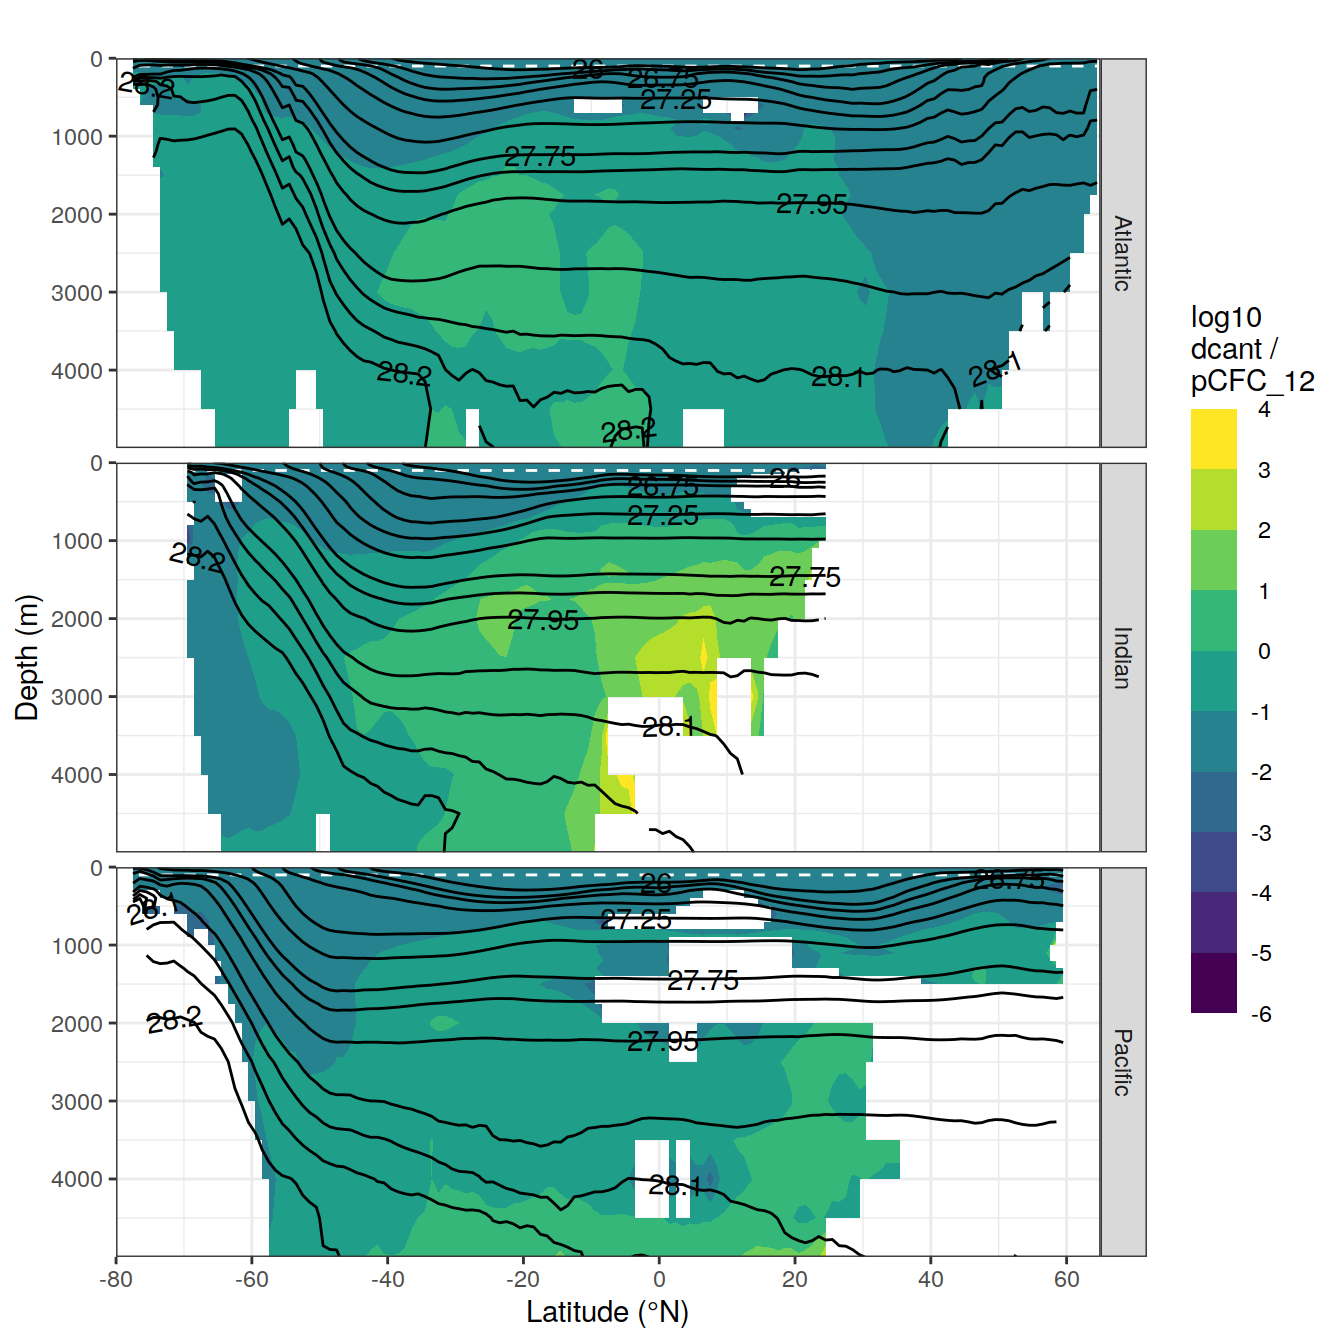
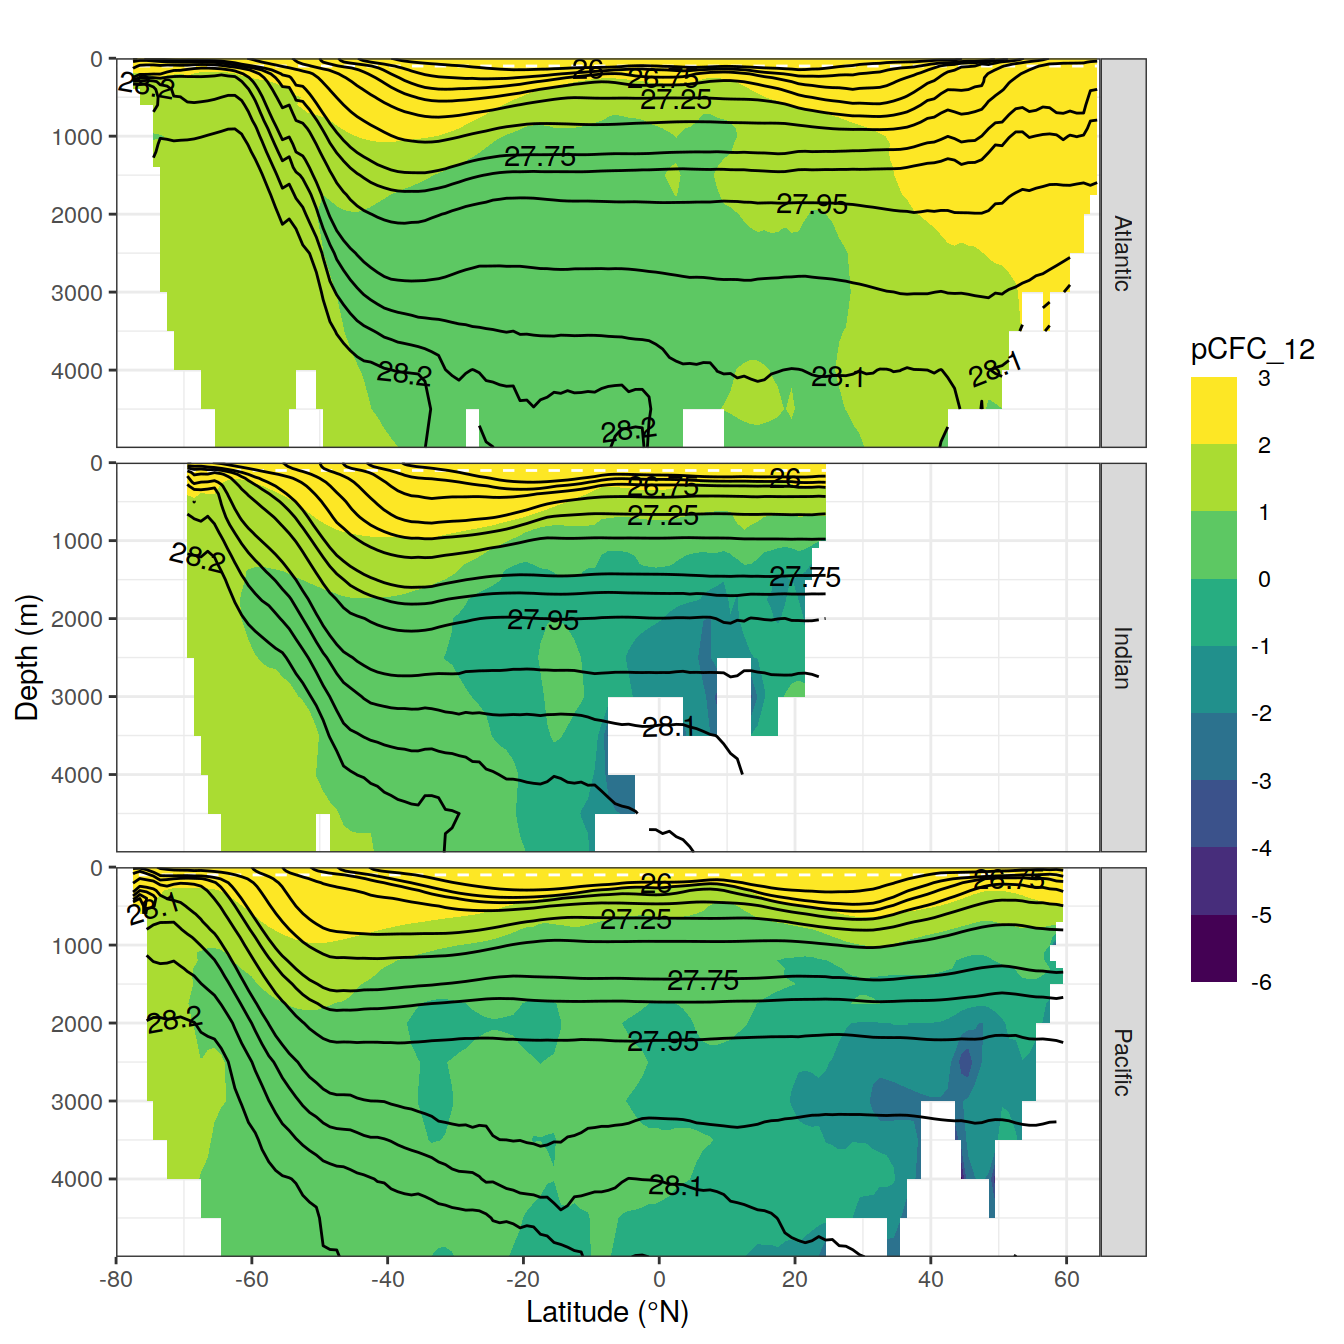
Build site.

diff --git a/docs/tracers_GLODAPv2_2021.html b/docs/tracers_GLODAPv2_2021.html
@@ -459,7 +459,7 @@ div.tocify {
 
 <h1 class="title toc-ignore">GLODAPv2_2021 halogenated tracers</h1>
 <h4 class="author">Jens Daniel Müller</h4>
-<h4 class="date">12 November, 2021</h4>
+<h4 class="date">16 November, 2021</h4>
 
 </div>
 
@@ -484,7 +484,7 @@ div.tocify {
 <div class="tab-content">
 <div id="summary" class="tab-pane fade in active">
 <p>
-<strong>Last updated:</strong> 2021-11-12
+<strong>Last updated:</strong> 2021-11-16
 </p>
 <p>
 <strong>Checks:</strong> <span class="glyphicon glyphicon-ok text-success" aria-hidden="true"></span> 7 <span class="glyphicon glyphicon-exclamation-sign text-danger" aria-hidden="true"></span> 0
@@ -575,16 +575,16 @@ This reproducible <a href="http://rmarkdown.rstudio.com">R Markdown</a> analysis
 <div class="panel panel-default">
 <div class="panel-heading">
 <p class="panel-title">
-<a data-toggle="collapse" data-parent="#workflowr-checks" href="#strongRepositoryversionstrongahrefhttpsgithubcomjensdanielmuelleremlrobsvXXXtree452790461bc99ad65cfa697c47ceb4f1631d2ff1targetblank4527904a"> <span class="glyphicon glyphicon-ok text-success" aria-hidden="true"></span> <strong>Repository version:</strong> <a href="https://github.com/jens-daniel-mueller/emlr_obs_v_XXX/tree/452790461bc99ad65cfa697c47ceb4f1631d2ff1" target="_blank">4527904</a> </a>
+<a data-toggle="collapse" data-parent="#workflowr-checks" href="#strongRepositoryversionstrongahrefhttpsgithubcomjensdanielmuelleremlrobsvXXXtree0ab7dc31fb9c9713718b52eb5f4f598114a5fb9atargetblank0ab7dc3a"> <span class="glyphicon glyphicon-ok text-success" aria-hidden="true"></span> <strong>Repository version:</strong> <a href="https://github.com/jens-daniel-mueller/emlr_obs_v_XXX/tree/0ab7dc31fb9c9713718b52eb5f4f598114a5fb9a" target="_blank">0ab7dc3</a> </a>
 </p>
 </div>
[2 lines of base64/hex data omitted]
 <div class="panel-body">
 <p>
 Great! You are using Git for version control. Tracking code development and connecting the code version to the results is critical for reproducibility.
 </p>
 <p>
-The results in this page were generated with repository version <a href="https://github.com/jens-daniel-mueller/emlr_obs_v_XXX/tree/452790461bc99ad65cfa697c47ceb4f1631d2ff1" target="_blank">4527904</a>. See the <em>Past versions</em> tab to see a history of the changes made to the R Markdown and HTML files.
+The results in this page were generated with repository version <a href="https://github.com/jens-daniel-mueller/emlr_obs_v_XXX/tree/0ab7dc31fb9c9713718b52eb5f4f598114a5fb9a" target="_blank">0ab7dc3</a>. See the <em>Past versions</em> tab to see a history of the changes made to the R Markdown and HTML files.
 </p>
 <p>
 Note that you need to be careful to ensure that all relevant files for the analysis have been committed to Git prior to generating the results (you can use <code>wflow_publish</code> or <code>wflow_git_commit</code>). workflowr only checks the R Markdown file, but you know if there are other scripts or data files that it depends on. Below is the status of the Git repository when the results were generated:
@@ -631,6 +631,40 @@ Message
 </tr>
 </thead>
 <tbody>
+<tr>
+<td>
+Rmd
+</td>
+<td>
+<a href="https://github.com/jens-daniel-mueller/emlr_obs_v_XXX/blob/0ab7dc31fb9c9713718b52eb5f4f598114a5fb9a/analysis/tracers_GLODAPv2_2021.Rmd" target="_blank">0ab7dc3</a>
+</td>
+<td>
+jens-daniel-mueller
+</td>
+<td>
+2021-11-16
+</td>
+<td>
+added plots per gamma level
+</td>
+</tr>
+<tr>
+<td>
+html
+</td>
+<td>
+<a href="https://rawcdn.githack.com/jens-daniel-mueller/emlr_obs_v_XXX/8a3e867be2ab2bad53db6dd1e8e12f6cc159c8f1/docs/tracers_GLODAPv2_2021.html" target="_blank">8a3e867</a>
+</td>
+<td>
+jens-daniel-mueller
+</td>
+<td>
+2021-11-12
+</td>
+<td>
+Build site.
+</td>
+</tr>
 <tr>
 <td>
 Rmd
@@ -6837,6 +6871,112 @@ jens-daniel-mueller
 </table>
 </div>
 </div>
+<pre class="r"><code>CFC_dcant %&gt;%
+  group_split(gamma_slab) %&gt;%
+  # head(1) %&gt;%
+  map(
+    ~ ggplot(data = .x,
+             aes(pCFC_12, dcant)) +
+      geom_hline(yintercept = 0) +
+      geom_bin2d() +
+      geom_smooth(col = &quot;red&quot;, se=FALSE) +
+      scale_fill_viridis_c(trans = &quot;log10&quot;) +
+      labs(title = paste(&quot;gamma_slab&quot;, unique(.x$gamma_slab))) +
+      facet_grid(. ~ basin_AIP)
+  )</code></pre>
+<pre><code>[[1]]</code></pre>
+<p><img src="figure/tracers_GLODAPv2_2021.Rmd/dcant_CFC12_correlation_gamma_individual-1.png" width="672" style="display: block; margin: auto;" /></p>
+<pre><code>
+[[2]]</code></pre>
+<p><img src="figure/tracers_GLODAPv2_2021.Rmd/dcant_CFC12_correlation_gamma_individual-2.png" width="672" style="display: block; margin: auto;" /></p>
+<pre><code>
+[[3]]</code></pre>
+<p><img src="figure/tracers_GLODAPv2_2021.Rmd/dcant_CFC12_correlation_gamma_individual-3.png" width="672" style="display: block; margin: auto;" /></p>
+<pre><code>
+[[4]]</code></pre>
+<p><img src="figure/tracers_GLODAPv2_2021.Rmd/dcant_CFC12_correlation_gamma_individual-4.png" width="672" style="display: block; margin: auto;" /></p>
+<pre><code>
+[[5]]</code></pre>
+<p><img src="figure/tracers_GLODAPv2_2021.Rmd/dcant_CFC12_correlation_gamma_individual-5.png" width="672" style="display: block; margin: auto;" /></p>
+<pre><code>
+[[6]]</code></pre>
+<p><img src="figure/tracers_GLODAPv2_2021.Rmd/dcant_CFC12_correlation_gamma_individual-6.png" width="672" style="display: block; margin: auto;" /></p>
+<pre><code>
+[[7]]</code></pre>
+<p><img src="figure/tracers_GLODAPv2_2021.Rmd/dcant_CFC12_correlation_gamma_individual-7.png" width="672" style="display: block; margin: auto;" /></p>
+<pre><code>
+[[8]]</code></pre>
+<p><img src="figure/tracers_GLODAPv2_2021.Rmd/dcant_CFC12_correlation_gamma_individual-8.png" width="672" style="display: block; margin: auto;" /></p>
+<pre><code>
+[[9]]</code></pre>
+<p><img src="figure/tracers_GLODAPv2_2021.Rmd/dcant_CFC12_correlation_gamma_individual-9.png" width="672" style="display: block; margin: auto;" /></p>
+<pre><code>
+[[10]]</code></pre>
+<p><img src="figure/tracers_GLODAPv2_2021.Rmd/dcant_CFC12_correlation_gamma_individual-10.png" width="672" style="display: block; margin: auto;" /></p>
+<pre><code>
+[[11]]</code></pre>
+<p><img src="figure/tracers_GLODAPv2_2021.Rmd/dcant_CFC12_correlation_gamma_individual-11.png" width="672" style="display: block; margin: auto;" /></p>
+<pre><code>
+[[12]]</code></pre>
+<p><img src="figure/tracers_GLODAPv2_2021.Rmd/dcant_CFC12_correlation_gamma_individual-12.png" width="672" style="display: block; margin: auto;" /></p>
+<pre><code>
+[[13]]</code></pre>
+<p><img src="figure/tracers_GLODAPv2_2021.Rmd/dcant_CFC12_correlation_gamma_individual-13.png" width="672" style="display: block; margin: auto;" /></p>
+<pre><code>
+[[14]]</code></pre>
+<p><img src="figure/tracers_GLODAPv2_2021.Rmd/dcant_CFC12_correlation_gamma_individual-14.png" width="672" style="display: block; margin: auto;" /></p>
+<pre><code>
+[[15]]</code></pre>
+<p><img src="figure/tracers_GLODAPv2_2021.Rmd/dcant_CFC12_correlation_gamma_individual-15.png" width="672" style="display: block; margin: auto;" /></p>
+<pre class="r"><code>CFC_dcant %&gt;%
+  filter(pCFC_12 &lt; 5) %&gt;%
+  group_split(gamma_slab) %&gt;%
+  # head(1) %&gt;%
+  map(~ ggplot(data = .x,
+               aes(dcant, col = basin_AIP, fill = basin_AIP)) +
+  geom_vline(xintercept = 0) +
+  geom_density(alpha = 0.3) +
+  labs(title = paste(&quot;pCFC-12 &lt; 5 | gamma_slab&quot;, unique(.x$gamma_slab))) +
+  coord_cartesian(xlim = c(-4,11.5))
+)</code></pre>
+<pre><code>[[1]]</code></pre>
+<p><img src="figure/tracers_GLODAPv2_2021.Rmd/dcant_CFC12_correlation_at_low_CFC_gamma-1.png" width="672" style="display: block; margin: auto;" /></p>
+<pre><code>
+[[2]]</code></pre>
+<p><img src="figure/tracers_GLODAPv2_2021.Rmd/dcant_CFC12_correlation_at_low_CFC_gamma-2.png" width="672" style="display: block; margin: auto;" /></p>
+<pre><code>
+[[3]]</code></pre>
+<p><img src="figure/tracers_GLODAPv2_2021.Rmd/dcant_CFC12_correlation_at_low_CFC_gamma-3.png" width="672" style="display: block; margin: auto;" /></p>
+<pre><code>
+[[4]]</code></pre>
+<p><img src="figure/tracers_GLODAPv2_2021.Rmd/dcant_CFC12_correlation_at_low_CFC_gamma-4.png" width="672" style="display: block; margin: auto;" /></p>
+<pre><code>
+[[5]]</code></pre>
+<p><img src="figure/tracers_GLODAPv2_2021.Rmd/dcant_CFC12_correlation_at_low_CFC_gamma-5.png" width="672" style="display: block; margin: auto;" /></p>
+<pre><code>
+[[6]]</code></pre>
+<p><img src="figure/tracers_GLODAPv2_2021.Rmd/dcant_CFC12_correlation_at_low_CFC_gamma-6.png" width="672" style="display: block; margin: auto;" /></p>
+<pre><code>
+[[7]]</code></pre>
+<p><img src="figure/tracers_GLODAPv2_2021.Rmd/dcant_CFC12_correlation_at_low_CFC_gamma-7.png" width="672" style="display: block; margin: auto;" /></p>
+<pre><code>
+[[8]]</code></pre>
+<p><img src="figure/tracers_GLODAPv2_2021.Rmd/dcant_CFC12_correlation_at_low_CFC_gamma-8.png" width="672" style="display: block; margin: auto;" /></p>
+<pre><code>
+[[9]]</code></pre>
+<p><img src="figure/tracers_GLODAPv2_2021.Rmd/dcant_CFC12_correlation_at_low_CFC_gamma-9.png" width="672" style="display: block; margin: auto;" /></p>
+<pre><code>
+[[10]]</code></pre>
+<p><img src="figure/tracers_GLODAPv2_2021.Rmd/dcant_CFC12_correlation_at_low_CFC_gamma-10.png" width="672" style="display: block; margin: auto;" /></p>
+<pre><code>
+[[11]]</code></pre>
+<p><img src="figure/tracers_GLODAPv2_2021.Rmd/dcant_CFC12_correlation_at_low_CFC_gamma-11.png" width="672" style="display: block; margin: auto;" /></p>
+<pre><code>
+[[12]]</code></pre>
+<p><img src="figure/tracers_GLODAPv2_2021.Rmd/dcant_CFC12_correlation_at_low_CFC_gamma-12.png" width="672" style="display: block; margin: auto;" /></p>
+<pre><code>
+[[13]]</code></pre>
+<p><img src="figure/tracers_GLODAPv2_2021.Rmd/dcant_CFC12_correlation_at_low_CFC_gamma-13.png" width="672" style="display: block; margin: auto;" /></p>
 </div>
 <div id="zonal-sections-1" class="section level2" number="6.2">
 <h2 number="6.2"><span class="header-section-number">6.2</span> Zonal sections</h2>
@@ -6989,11 +7129,11 @@ jens-daniel-mueller
 </div>
 </div>
 <pre class="r"><code>CFC_dcant_zonal %&gt;%
-  # filter(dcant_per_CFC_log &gt; -4) %&gt;%
+  mutate(lg_pCFC_12_mean = log10(pCFC_12_mean)) %&gt;% 
   p_section_zonal_continous_depth(
-    var = &quot;dcant_per_CFC_log&quot;,
+    var = &quot;lg_pCFC_12_mean&quot;,
     breaks = NULL,
-    legend_title = &quot;log10\ndcant /\npCFC_12&quot;,
+    legend_title = &quot;pCFC_12&quot;,
     title_text = NULL
   ) +
   facet_grid(basin_AIP ~ .)</code></pre>
@@ -7020,6 +7160,17 @@ Date
 </tr>
 </thead>
 <tbody>
+<tr>
+<td>
+<a href="https://github.com/jens-daniel-mueller/emlr_obs_v_XXX/blob/8a3e867be2ab2bad53db6dd1e8e12f6cc159c8f1/docs/figure/tracers_GLODAPv2_2021.Rmd/zonal_mean_sections-3.png" target="_blank">8a3e867</a>
+</td>
+<td>
+jens-daniel-mueller
+</td>
+<td>
+2021-11-12
+</td>
+</tr>
 <tr>
 <td>
 <a href="https://github.com/jens-daniel-mueller/emlr_obs_v_XXX/blob/029c50af837eed95d99b546ced0d74eb7f98350e/docs/figure/tracers_GLODAPv2_2021.Rmd/zonal_mean_sections-3.png" target="_blank">029c50a</a>
@@ -7054,11 +7205,6 @@ jens-daniel-mueller
     legend_title = &quot;log10\ndcant /\npCFC_12&quot;,
     title_text = NULL
   ) +
-  scale_y_reverse(
-    limits = c(1000, 0),
-    breaks = seq(0, 900, 200),
-    name = &quot;Depth (m)&quot;
-  ) +
   facet_grid(basin_AIP ~ .)</code></pre>
 <p><img src="figure/tracers_GLODAPv2_2021.Rmd/zonal_mean_sections-4.png" width="672" style="display: block; margin: auto;" /></p>
 <p>
@@ -7083,6 +7229,17 @@ Date
 </tr>
 </thead>
 <tbody>
+<tr>
+<td>
+<a href="https://github.com/jens-daniel-mueller/emlr_obs_v_XXX/blob/8a3e867be2ab2bad53db6dd1e8e12f6cc159c8f1/docs/figure/tracers_GLODAPv2_2021.Rmd/zonal_mean_sections-4.png" target="_blank">8a3e867</a>
+</td>
+<td>
+jens-daniel-mueller
+</td>
+<td>
+2021-11-12
+</td>
+</tr>
 <tr>
 <td>
 <a href="https://github.com/jens-daniel-mueller/emlr_obs_v_XXX/blob/e5a0a8fb15701b165aa0606d4180043b95d27fd0/docs/figure/tracers_GLODAPv2_2021.Rmd/zonal_mean_sections-4.png" target="_blank">e5a0a8f</a>
@@ -7119,6 +7276,102 @@ jens-daniel-mueller
 <tr>
 <td>
 <a href="https://github.com/jens-daniel-mueller/emlr_obs_v_XXX/blob/20e7603fe7fda1ae4c4dbb0517a4584a976ac2bc/docs/figure/tracers_GLODAPv2_2021.Rmd/zonal_mean_sections-4.png" target="_blank">20e7603</a>
+</td>
+<td>
+jens-daniel-mueller
+</td>
+<td>
+2021-11-12
+</td>
+</tr>
+</tbody>
+</table>
+</div>
+</div>
+<pre class="r"><code>CFC_dcant_zonal %&gt;%
+  # filter(dcant_per_CFC_log &gt; -4) %&gt;%
+  p_section_zonal_continous_depth(
+    var = &quot;dcant_per_CFC_log&quot;,
+    breaks = NULL,
+    legend_title = &quot;log10\ndcant /\npCFC_12&quot;,
+    title_text = NULL
+  ) +
+  scale_y_reverse(
+    limits = c(1000, 0),
+    breaks = seq(0, 900, 200),
+    name = &quot;Depth (m)&quot;
+  ) +
+  facet_grid(basin_AIP ~ .)</code></pre>
+<p><img src="figure/tracers_GLODAPv2_2021.Rmd/zonal_mean_sections-5.png" width="672" style="display: block; margin: auto;" /></p>
+<p>
+<button type="button" class="btn btn-default btn-xs btn-workflowr btn-workflowr-fig" data-toggle="collapse" data-target="#fig-zonal_mean_sections-5">
+Past versions of zonal_mean_sections-5.png
+</button>
+</p>
+<div id="fig-zonal_mean_sections-5" class="collapse">
+<div class="table-responsive">
+<table class="table table-condensed table-hover">
+<thead>
+<tr>
+<th>
+Version
+</th>
+<th>
+Author
+</th>
+<th>
+Date
+</th>
+</tr>
+</thead>
+<tbody>
+<tr>
+<td>
+<a href="https://github.com/jens-daniel-mueller/emlr_obs_v_XXX/blob/8a3e867be2ab2bad53db6dd1e8e12f6cc159c8f1/docs/figure/tracers_GLODAPv2_2021.Rmd/zonal_mean_sections-5.png" target="_blank">8a3e867</a>
+</td>
+<td>
+jens-daniel-mueller
+</td>
+<td>
+2021-11-12
+</td>
+</tr>
+<tr>
+<td>
+<a href="https://github.com/jens-daniel-mueller/emlr_obs_v_XXX/blob/e5a0a8fb15701b165aa0606d4180043b95d27fd0/docs/figure/tracers_GLODAPv2_2021.Rmd/zonal_mean_sections-5.png" target="_blank">e5a0a8f</a>
+</td>
+<td>
+jens-daniel-mueller
+</td>
+<td>
+2021-11-12
+</td>
+</tr>
+<tr>
+<td>
+<a href="https://github.com/jens-daniel-mueller/emlr_obs_v_XXX/blob/1b58f8e65653707e7dbdcabe7eb7dec9b82a2e5a/docs/figure/tracers_GLODAPv2_2021.Rmd/zonal_mean_sections-5.png" target="_blank">1b58f8e</a>
+</td>
+<td>
+jens-daniel-mueller
+</td>
+<td>
+2021-11-12
+</td>
+</tr>
+<tr>
+<td>
+<a href="https://github.com/jens-daniel-mueller/emlr_obs_v_XXX/blob/029c50af837eed95d99b546ced0d74eb7f98350e/docs/figure/tracers_GLODAPv2_2021.Rmd/zonal_mean_sections-5.png" target="_blank">029c50a</a>
+</td>
+<td>
+jens-daniel-mueller
+</td>
+<td>
+2021-11-12
+</td>
+</tr>
+<tr>
+<td>
+<a href="https://github.com/jens-daniel-mueller/emlr_obs_v_XXX/blob/20e7603fe7fda1ae4c4dbb0517a4584a976ac2bc/docs/figure/tracers_GLODAPv2_2021.Rmd/zonal_mean_sections-5.png" target="_blank">20e7603</a>
 </td>
 <td>
 jens-daniel-mueller
